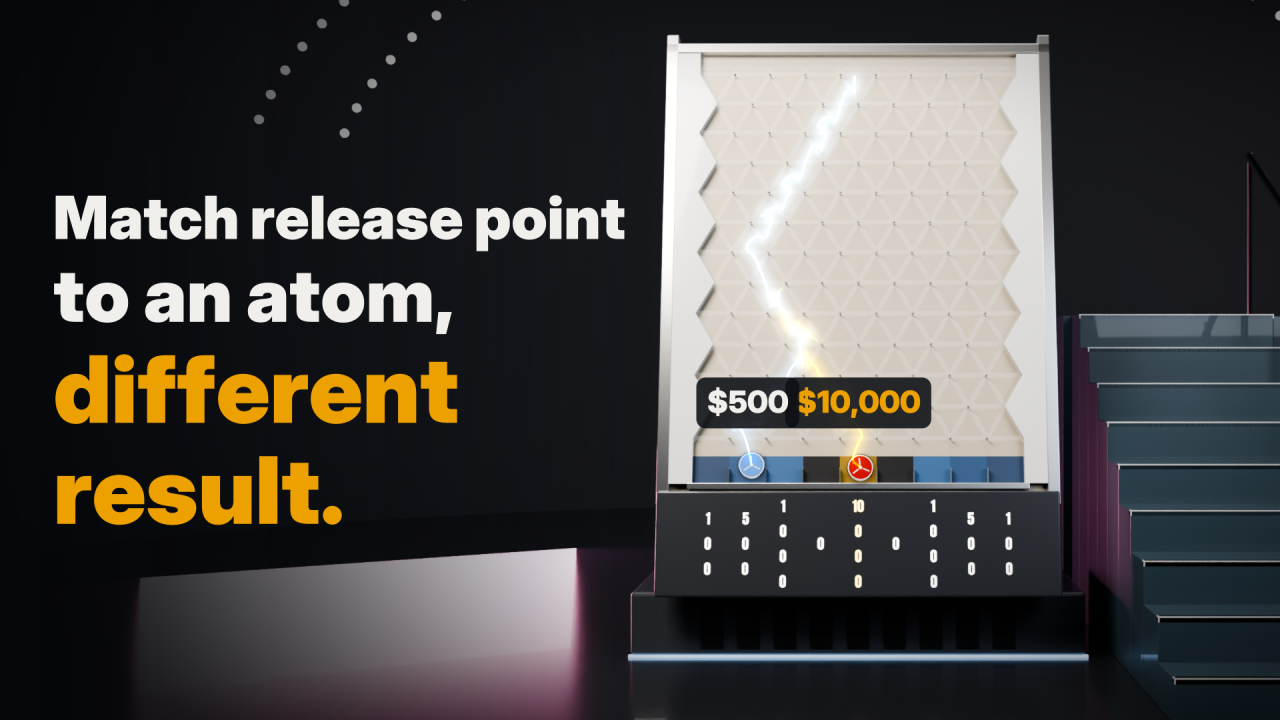
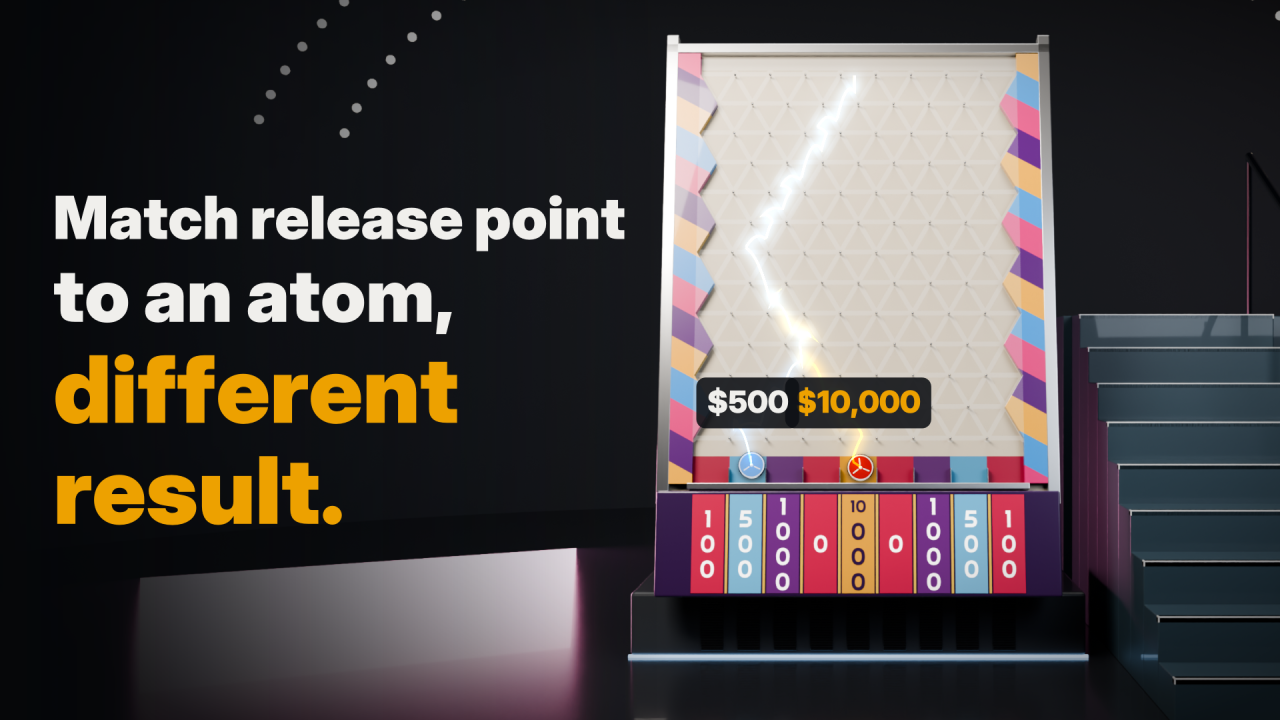
Chaos cut: rebuild captions, thumbnails on the restyled board, 6:20 chapters
Claude-Session: https://claude.ai/code/session_01S7EUMzPhLyDgSQHoFb2Ud4

Changed region(s): [[0.5, 0.0611, 0.8438, 0.825]]

diff --git a/plinko/composite_chaos.py b/plinko/composite_chaos.py
@@ -108,16 +108,16 @@ def ov_real(ctx, gctx, t, shot, cm, crop):
 def ov_rebuild(ctx, gctx, t, shot, cm, crop):
     """The real game beside our rebuild of the TV board."""
     C.scrim(ctx, 1000, 0.9)
-    x, w = draw_photo(ctx, 450, 150, 760, D.fade(t, 0.0, 99, 0.3))
+    x, w = draw_photo(ctx, 450, 150, 840, D.fade(t, 0.0, 99, 0.3))
     a = D.fade(t, 0.6, 99, 0.4)
-    D.text(ctx, "A real Plinko board (the home game)", 450, 965, 26, D.INK, a, "semibold", "center")
-    D.text(ctx, PHOTO_CREDIT, 450, 1000, 14, D.INK3, a, align="center")
+    D.text(ctx, "A real Plinko board (the home game)", 450, 1040, 26, D.INK, a, "semibold", "center")
+    D.text(ctx, PHOTO_CREDIT, 450, 1070, 13, D.INK3, a, align="center")
     q0 = cm.px(C.board_world(1.0 * W, C.B.last_row_y() + 1.6 * W, 0.0), crop)
     q1 = cm.px(C.board_world(9.0 * W, C.B.last_row_y() + 1.6 * W, 0.0), crop)
     cx = (q0[0] + q1[0]) / 2
     a = D.fade(t, cue("rebuild", 0, 1) - 0.3, 99, 0.4)
-    D.text(ctx, "Our rebuild of the TV board,", cx, 965, 26, D.INK, a, "semibold", "center")
-    D.text(ctx, "measured pin for pin from broadcast frames", cx, 1000, 20, D.INK2, a, align="center")
+    D.text(ctx, "Our rebuild of the TV board, measured pin for pin", cx, 1040, 26, D.INK, a, "semibold", "center")
+    D.text(ctx, "from broadcast frames", cx, 1070, 18, D.INK2, a, align="center")
     D.text(ctx, "To study it, we rebuilt it.", LX, 110, 44, D.INK, D.fade(t, 0.3, 99, 0.4), "black")
 
 

diff --git a/videos/README.md b/videos/README.md
@@ -17,7 +17,7 @@ Thumbnails are in each folder's `thumbnails/`; titles, descriptions and tags alr
 
 | File | Format | Length | What it is |
 |---|---|---|---|
-| plinko_chaos_same_release_point_different_finish_narrated_6m07s.mp4 | 16:9 | 6:07 | **Use this one.** Narrated (ElevenLabs, Lily voice; script `copy/plinko_chaos_NARRATION.md`). Chaos theory told with the board, with a chapter on what chaos theory is (Lorenz, the butterfly attractor), a flat wall vs a round pin, and one chip's energy turning into heat: a winning drop replayed to an atom's width lands in $500; why round pins make chaos; releases from anywhere across the top, up to 30 cm above the pins; replaying winners at any precision (16% at 1 micron vs 13% fresh, 39% at 1 atom, never certain); a map of every release point, a 4 cm square of them, and one winning release point zoomed a hundredfold at a time; a perfect start with only the board's temperature changed (one drop's heat turns $10,000 into $0; a billionth of a degree still matters); a real board is never the same twice. Copy: `copy/plinko_chaos_YOUTUBE.md`, thumbnails plinko_chaos_thumb_A1 to C3 |
+| plinko_chaos_same_release_point_different_finish_narrated_6m20s.mp4 | 16:9 | 6:20 | **Use this one.** Narrated (ElevenLabs, Lily voice; script `copy/plinko_chaos_NARRATION.md`). Chaos theory told with the board, with a chapter on what chaos theory is (Lorenz, the butterfly attractor), a flat wall vs a round pin, and one chip's energy turning into heat: a winning drop replayed to an atom's width lands in $500; why round pins make chaos; releases from anywhere across the top, up to 30 cm above the pins; replaying winners at any precision (16% at 1 micron vs 13% fresh, 39% at 1 atom, never certain); a map of every release point, a 4 cm square of them, and one winning release point zoomed a hundredfold at a time; a perfect start with only the board's temperature changed (one drop's heat turns $10,000 into $0; a billionth of a degree still matters); a real board is never the same twice. Copy: `copy/plinko_chaos_YOUTUBE.md`, thumbnails plinko_chaos_thumb_A1 to C3 |
 | where_to_drop_a_plinko_chip_blender_2m55s.mp4 | 16:9 | 2:55 | Second choice to the chaos cut; its micron claim holds (see `copy/plinko_blender_YOUTUBE.md`). The Blender edition: a to-scale studio board rendered in Cycles, chips from the simulator with real motion blur, an LED bar-chart panel for the data, and the micron question (could perfect aim win every time? no). Copy: `copy/plinko_blender_YOUTUBE.md`, thumbnails plinko_blender_thumb_A/B |
 | where_to_drop_a_plinko_chip_3m21s.mp4 | 16:9 | 3:21 | Where to drop a Plinko chip: the board measured, the textbook coin-flip answer, 1,029 real chips, a physics rebuild tuned to them, chaos, and the verdict. Copy: `copy/plinko_YOUTUBE.md`, thumbnails plinko_thumb_A/B. Built by `plinko/` (see its README and ACCURACY.md) |
 | where_to_drop_a_plinko_chip_SHORT_58s.mp4 | vertical | 0:58 | Short cut of the same |

diff --git a/videos/copy/plinko_chaos_YOUTUBE.md b/videos/copy/plinko_chaos_YOUTUBE.md
@@ -1,7 +1,7 @@
 # YouTube copy: Plinko and chaos ("Same release point, different finish")
 
-**Upload `plinko/plinko_chaos_same_release_point_different_finish_narrated_6m07s.mp4`:**
-* 6:07, 1920x1080, 30 fps, H.264, AAC stereo at -16 LUFS;
+**Upload `plinko/plinko_chaos_same_release_point_different_finish_narrated_6m20s.mp4`:**
+* 6:20, 1920x1080, 30 fps, H.264, AAC stereo at -16 LUFS;
 * narrated (ElevenLabs, "Lily" voice; script in `plinko_chaos_NARRATION.md`), on-screen captions, no music.
 
 This is the main Plinko upload. It replaces every earlier chaos cut (the 2:54 cut's replay numbers were inflated
@@ -69,18 +69,18 @@ I measured the board from broadcast frames, rebuilt it in a physics simulator an
 One drop can't be predicted. Four hundred can, and the pile they make is why the middle still pays best.
 
 0:00 Same release point, different finish
-0:18 Nothing on the board is random
-0:35 Two chips a thousandth of a millimetre apart
-0:52 What is chaos theory? Lorenz and the butterfly effect
-1:45 Why round pins make chaos
-2:33 How far ahead can you see?
-2:51 Replaying a winning drop
-3:20 Every place you could let go
-3:59 Where the heat comes from: one chip's energy
-4:54 Same drop, warmer board
-5:11 How much warmer is too warm?
-5:31 One drop vs four hundred
-5:55 Deterministic, and unpredictable
+0:23 Our rebuild, and why nothing on it is random
+0:48 Two chips a thousandth of a millimetre apart
+1:05 What is chaos theory? Lorenz and the butterfly effect
+1:58 Why round pins make chaos
+2:45 How far ahead can you see?
+3:03 Replaying a winning drop
+3:32 Every place you could let go
+4:12 Where the heat comes from: one chip's energy
+5:06 Same drop, warmer board
+5:23 How much warmer is too warm?
+5:43 One drop vs four hundred
+6:07 Deterministic, and unpredictable
 
 How it's made: the board is built in Blender from measurements of the TV board, and every chip path comes from a 2D rigid-body simulator tuned to 1,029 real chips from the show (tpirstats.com, seasons 44 to 54). Narration: ElevenLabs ("Lily"). Method, sources and every number: https://github.com/drburke-droid/nhl-sog-predictor/blob/master/plinko/ACCURACY.md
 

diff --git a/plinko/README.md b/plinko/README.md
@@ -32,7 +32,7 @@ contestants dropping all over. Drop-position logs would settle it.
 
 | File | What |
 |---|---|
-| `../videos/plinko/plinko_chaos_same_release_point_different_finish_narrated_6m07s.mp4` | **The chaos cut (main film)**: 1920x1080, 30 fps, H.264, 11,025 frames = 367.5 s, narrated (ElevenLabs, Lily voice; script `../videos/copy/plinko_chaos_NARRATION.md`). Thumbnails `plinko_chaos_thumb_A1` to `C3` |
+| `../videos/plinko/plinko_chaos_same_release_point_different_finish_narrated_6m20s.mp4` | **The chaos cut (main film)**: 1920x1080, 30 fps, H.264, 11,400 frames = 380.0 s, narrated (ElevenLabs, Lily voice; script `../videos/copy/plinko_chaos_NARRATION.md`). Thumbnails `plinko_chaos_thumb_A1` to `C3` |
 | `../videos/plinko/where_to_drop_a_plinko_chip_blender_2m55s.mp4` | The Blender edition: 1920x1080, 30 fps, H.264 High / yuv420p, 5,250 frames = 175.0 s. Thumbnails `plinko_blender_thumb_A/B` (`thumbs3d.py`), stills in `media/stills_blender/` |
 | `../videos/plinko/where_to_drop_a_plinko_chip_3m21s.mp4` | The film: 1920x1080, 30 fps, H.264 High / yuv420p, 6,030 frames = 201.0 s, on-screen captions, no narration |
 | `../videos/plinko/where_to_drop_a_plinko_chip_SHORT_58s.mp4` | Vertical cut, 1080x1920, 1,725 frames = 57.5 s |
@@ -45,7 +45,7 @@ contestants dropping all over. Drop-position logs would settle it.
 
 ## The chaos cut: "Same release point, different finish" (the main film)
 
-A 6:07 film that uses the board to explain chaos. A winning drop is replayed from the same release point, matched to
+A 6:20 film that uses the board to explain chaos. A winning drop is replayed from the same release point, matched to
 the width of an atom, and lands in $500. The film then explains chaos theory (Lorenz's 1961 rerun and the
 butterfly attractor), why round pins make chaos (a flat wall against a round pin) (a gap grows about 2.2 times per bounce), the predictability horizon, and the replay
 experiment. Players may let go anywhere across the top, at the pins or up to 30 cm (12 in) above them, so the
